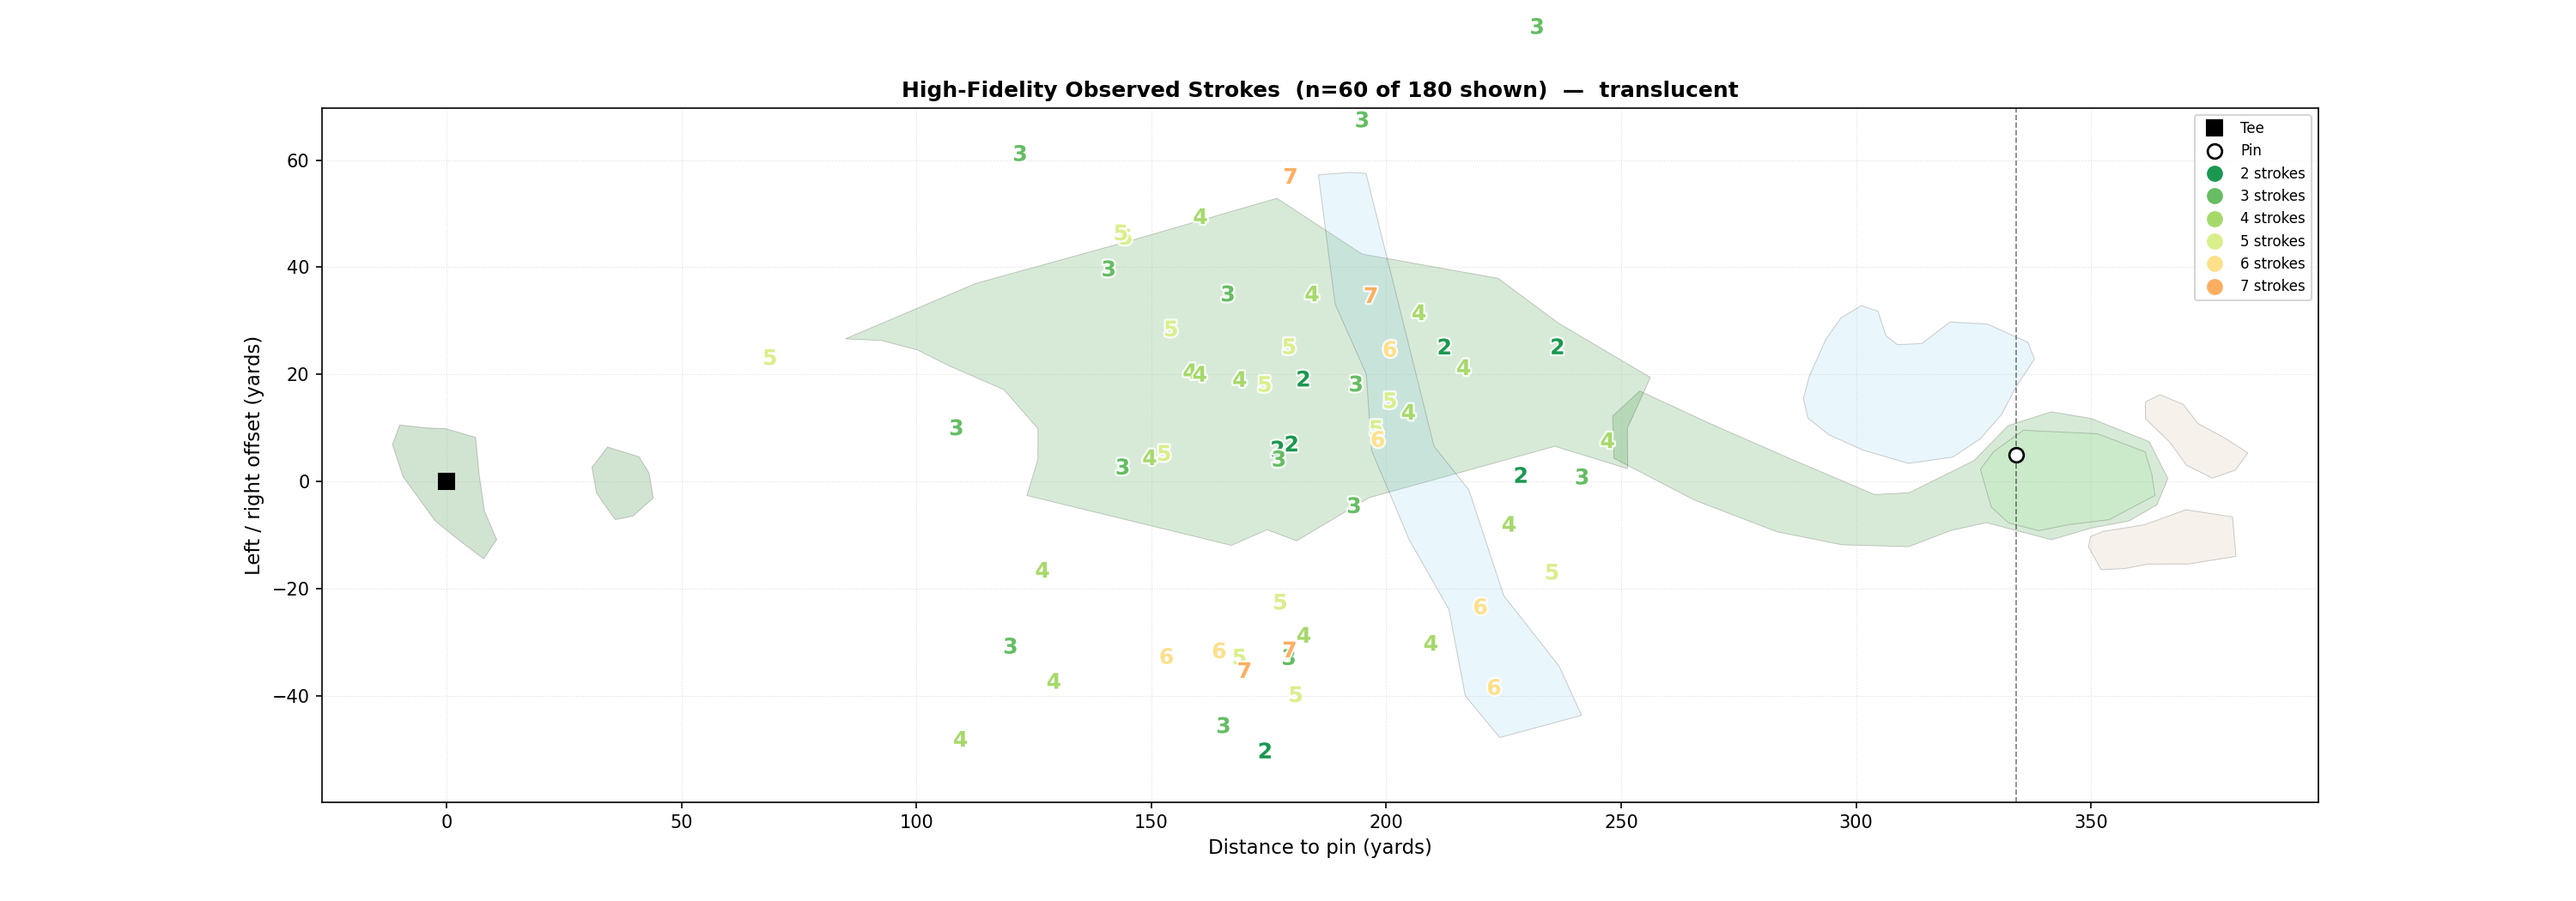
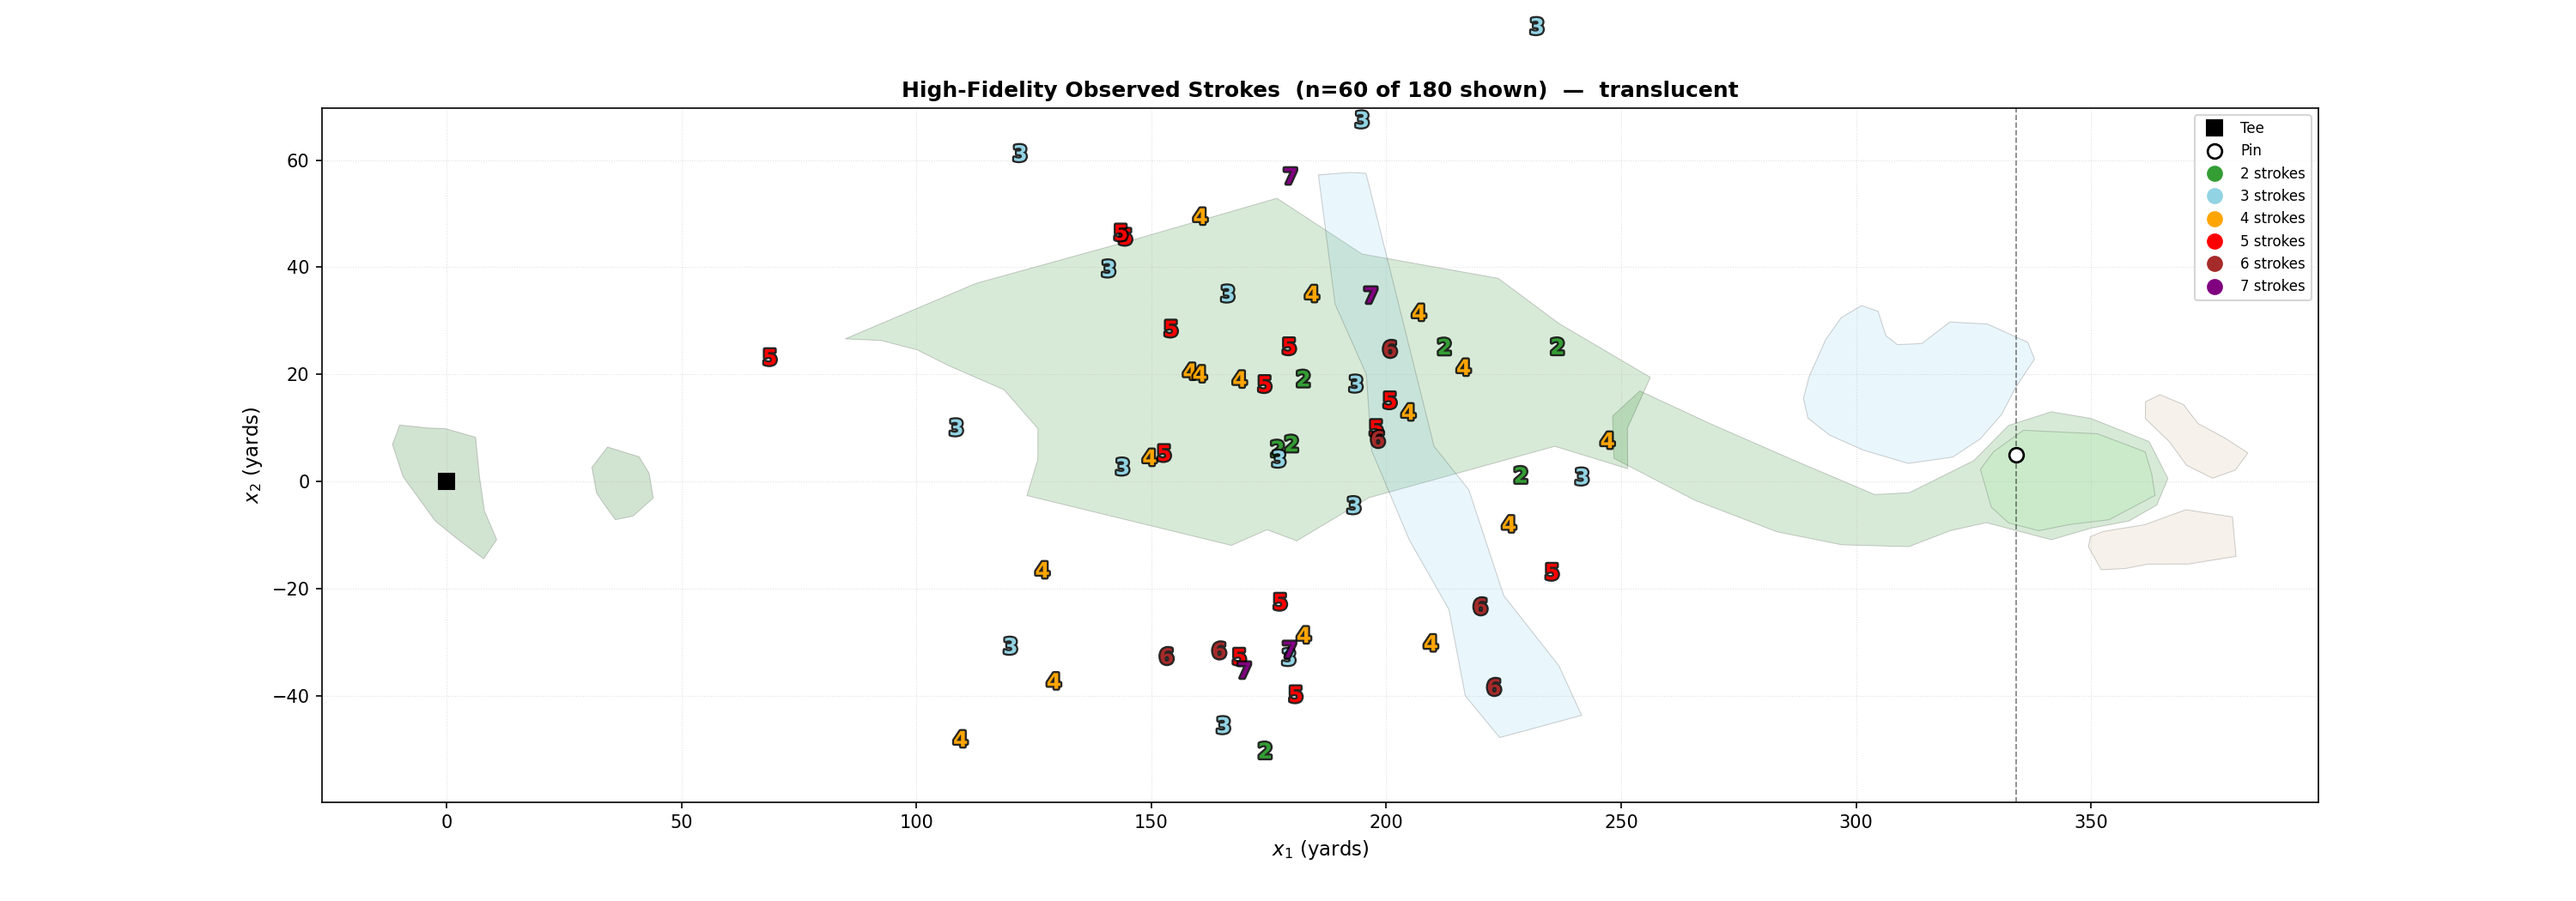
Use the actual sampledPutts.png colours, black text outline, x1/x2 labels
STROKE_COLORS now uses the exact hex the user supplied for the three
lowest values (matching sampledPutts.png), continued with
simulatingpar3script.py's actual putt_color_map colours (red, brown)
for the next two, and new distinct colours beyond that instead of that
script's fallback of collapsing everything past 5 into one "purple".

Also: black (not white) text outline on fig2's stroke numbers for
legibility, and $x_1$/$x_2$ axis labels everywhere, matching the
convention already used in shot_outcomes_stacked.png.

diff --git a/final images/course_overlay_variants.py b/final images/course_overlay_variants.py
@@ -24,23 +24,24 @@ MFGP_DIR = ROOT / "Multi-Fidelity GP"
 PIN = (5.0, 334.0)
 N_SIMULATIONS = 300
 
-# Fixed integer-stroke -> colour mapping, same style family as the putting-green
-# sample figure (sampledPutts.png: green=good/low, through to red=bad/high),
-# extended over the wider range of full-swing outcomes. A given stroke count
-# always gets the same colour across every figure, regardless of which subset
-# of values that particular figure happens to show. Values beyond the table
-# fall back to a distinct colour of their own rather than reusing one above.
+# Fixed integer-stroke -> colour mapping. First three values are the exact
+# hex the sampledPutts.png reference uses (best/lowest = green, through to
+# worst/highest); 5 and 6 are simulatingpar3script.py's putt_color_map
+# ("red", "brown") converted to hex, continuing the same reference. Nothing
+# beyond that was defined anywhere, so 7+ get new, mutually distinct colours
+# rather than reusing "purple" for everything past 5 the way that script did.
+# A given stroke count always gets the same colour across every figure,
+# regardless of which subset of values that particular figure happens to show.
 STROKE_COLORS = {
-    1: "#006837",
-    2: "#1a9850",
-    3: "#66bd63",
-    4: "#a6d96a",
-    5: "#d9ef8b",
-    6: "#fee08b",
-    7: "#fdae61",
-    8: "#f46d43",
-    9: "#d73027",
-    10: "#a50026",
+    2: "#349d34",
+    3: "#92d3e3",
+    4: "#ffa503",
+    5: "#ff0000",   # matplotlib "red"
+    6: "#a52a2a",   # matplotlib "brown"
+    7: "#800080",   # matplotlib "purple"
+    8: "#4b0082",   # indigo
+    9: "#2f4f4f",   # dark slate
+    10: "#000000",  # black
 }
 _EXTRA_CMAP = plt.get_cmap("cool")
 
@@ -157,8 +158,8 @@ def plot_low_fidelity(hole, style: str) -> Path:
     x_min, x_max, y_min, y_max = course_bounds(hole)
     ax.set_xlim(y_min - 15, y_max + 15)
     ax.set_ylim(x_min - 12, x_max + 12)
-    ax.set_xlabel("Distance to pin (yards)", fontsize=11)
-    ax.set_ylabel("Left / right offset (yards)", fontsize=11)
+    ax.set_xlabel("$x_1$ (yards)", fontsize=11)
+    ax.set_ylabel("$x_2$ (yards)", fontsize=11)
     ax.set_title(f"Low-Fidelity Simulated ESHO Grid  (N={N_SIMULATIONS}, aim -40..40y step 4y)"
                  f"  —  {style}", fontsize=12, fontweight="bold")
     ax.grid(True, linestyle=":", linewidth=0.5, alpha=0.4, zorder=1)
@@ -190,15 +191,15 @@ def plot_high_fidelity(hole, style: str) -> Path:
         ax.text(r["x2"], r["x1"], f"{n}", ha="center", va="center",
                 fontsize=12, fontweight="bold", color=stroke_color(n),
                 zorder=10,
-                path_effects=[pe.withStroke(linewidth=2.2, foreground="white", alpha=0.85)])
+                path_effects=[pe.withStroke(linewidth=2.2, foreground="black", alpha=0.85)])
 
     draw_markers(ax, hole)
     ax.axvline(PIN[1], color="black", linestyle="--", linewidth=0.8, alpha=0.5, zorder=1)
     x_min, x_max, y_min, y_max = course_bounds(hole)
     ax.set_xlim(y_min - 15, y_max + 15)
     ax.set_ylim(x_min - 12, x_max + 12)
-    ax.set_xlabel("Distance to pin (yards)", fontsize=11)
-    ax.set_ylabel("Left / right offset (yards)", fontsize=11)
+    ax.set_xlabel("$x_1$ (yards)", fontsize=11)
+    ax.set_ylabel("$x_2$ (yards)", fontsize=11)
     ax.set_title(f"High-Fidelity Observed Strokes  (n={len(obs_sub)} of {len(obs)} shown)"
                  f"  —  {style}", fontsize=12, fontweight="bold")
     ax.grid(True, linestyle=":", linewidth=0.5, alpha=0.4, zorder=1)

diff --git a/Multi-Fidelity GP/gen_dl_vs_dh_fig.py b/Multi-Fidelity GP/gen_dl_vs_dh_fig.py
@@ -21,8 +21,8 @@ from generate_observed_data import (
 # Same fixed integer-stroke palette as final images/course_overlay_variants.py —
 # kept in sync by hand since that module lives in a space-containing path.
 STROKE_COLORS = {
-    1: "#006837", 2: "#1a9850", 3: "#66bd63", 4: "#a6d96a", 5: "#d9ef8b",
-    6: "#fee08b", 7: "#fdae61", 8: "#f46d43", 9: "#d73027", 10: "#a50026",
+    2: "#349d34", 3: "#92d3e3", 4: "#ffa503", 5: "#ff0000", 6: "#a52a2a",
+    7: "#800080", 8: "#4b0082", 9: "#2f4f4f", 10: "#000000",
 }
 _EXTRA_CMAP = plt.get_cmap("cool")
 
@@ -67,18 +67,19 @@ for hs in HOTSPOTS:
 draw_pin(ax1)
 ax1.set_aspect("equal")
 ax1.set_title(r"$\mathcal{D}_L$ — Simulated ESHO surface")
-ax1.set_xlabel("x (yards)"); ax1.set_ylabel("y (yards)")
+ax1.set_xlabel("$x_1$ (yards)"); ax1.set_ylabel("$x_2$ (yards)")
 ax1.legend(fontsize=8)
 
 # ── D_H: sparse observed-stroke proxy (discrete per-stroke colours, same
 #    fixed table as fig2_high_fidelity_course_translucent.png) ──────────────
 _draw_polygons(ax3, polygons, alpha=0.25)
 colors = [stroke_color(int(n)) for n in df["observed_strokes"]]
-ax3.scatter(df["x1"], df["x2"], c=colors, s=22, alpha=0.9, edgecolors="none")
+ax3.scatter(df["x1"], df["x2"], c=colors, s=26, alpha=0.9,
+            edgecolors="black", linewidths=0.5)
 draw_pin(ax3)
 ax3.set_aspect("equal")
 ax3.set_title(r"$\mathcal{D}_H$ — Observed strokes-to-hole-out ($n$=%d)" % len(df))
-ax3.set_xlabel("x (yards)"); ax3.set_ylabel("y (yards)")
+ax3.set_xlabel("$x_1$ (yards)"); ax3.set_ylabel("$x_2$ (yards)")
 
 present = sorted(int(v) for v in df["observed_strokes"].unique())
 stroke_handles = [plt.Line2D([0], [0], marker="o", linestyle="None",
